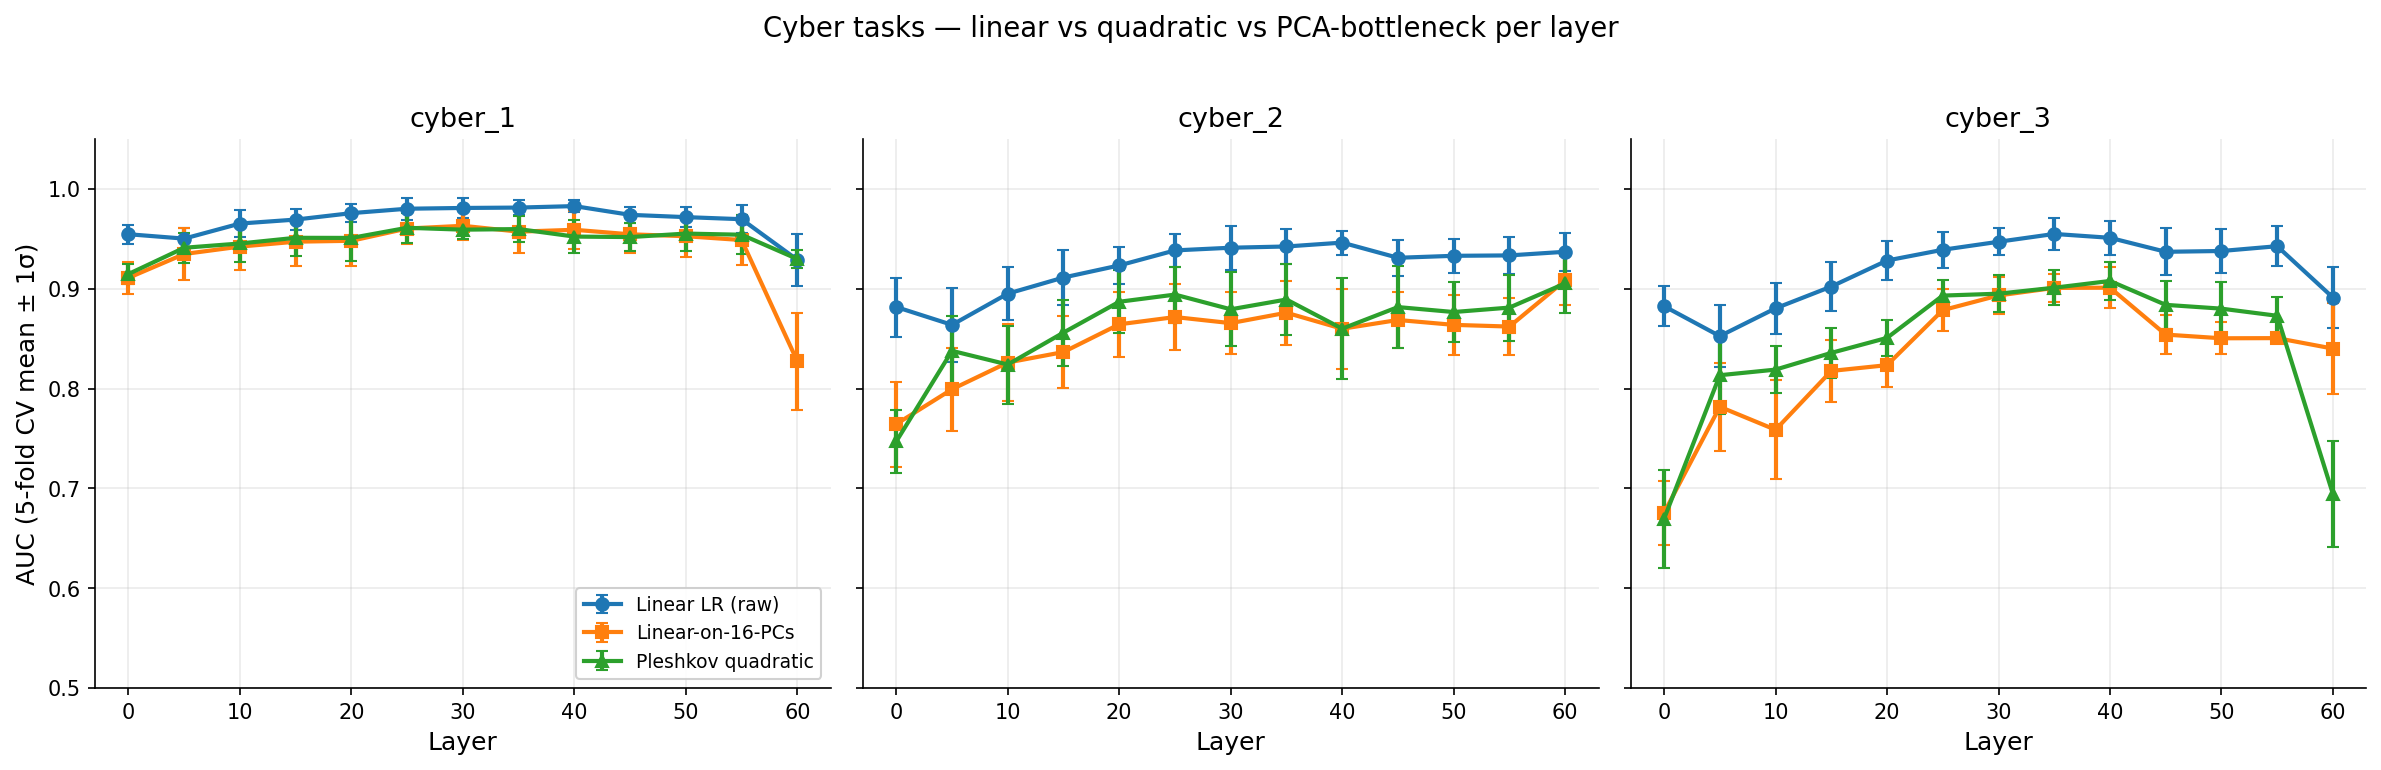
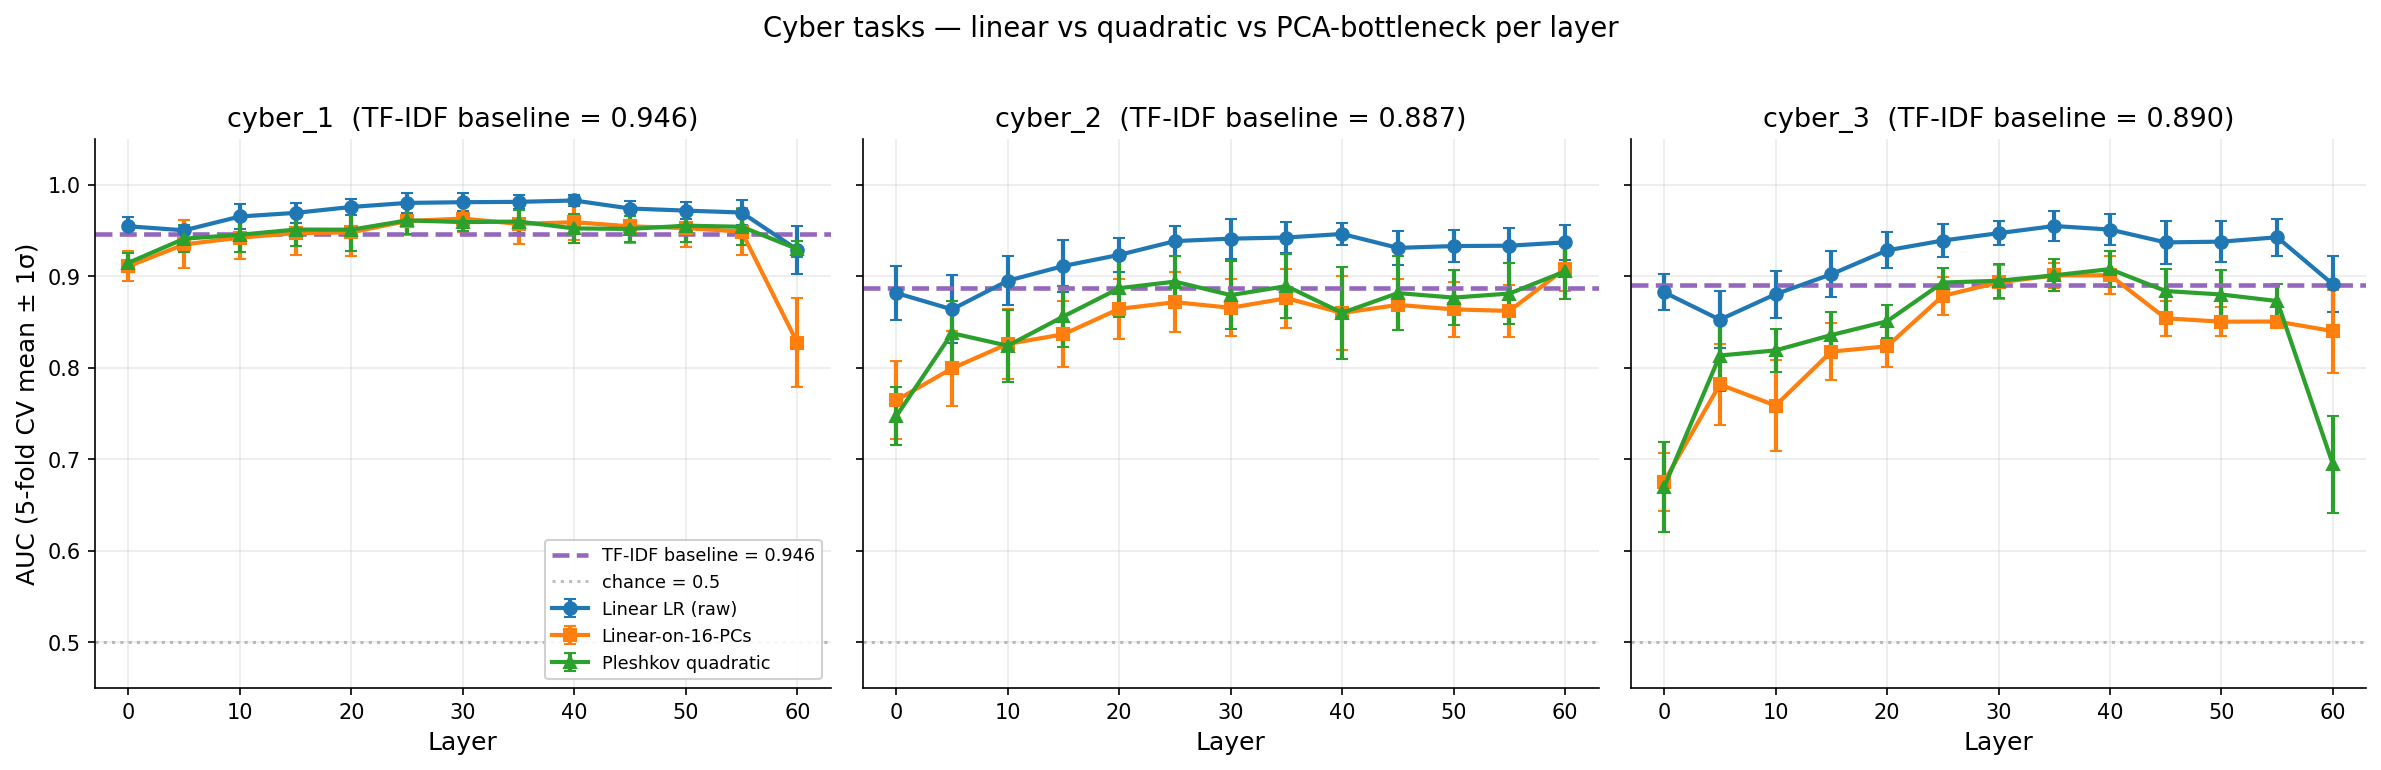
Add TF-IDF baseline to refusal + cyber layer-sweep plots
TF-IDF AUCs (purple dashed line):
  cyber_1 = 0.946  (exp 09 D1)
  cyber_2 = 0.887
  cyber_3 = 0.890
  refusal = 0.877  (exp 21)

Plus chance=0.5 dotted line for reference. Shows the activation lift
above TF-IDF: linear-on-raw exceeds TF-IDF at L20+ everywhere; Pleshkov
sits AT or below TF-IDF (PCA bottleneck collapses to baseline level).

diff --git a/experiments/37_presentation_plots/make_plots.py b/experiments/37_presentation_plots/make_plots.py
@@ -167,12 +167,16 @@ def plot_refusal_layer_sweep():
                 label="Linear LR on 16 PCs", capsize=3)
     ax.errorbar(layers, quad, yerr=quad_e, marker="^", color="#2ca02c", lw=2,
                 label="Pleshkov quadratic (16 PCs + degree-2 + ridge)", capsize=3)
+    # TF-IDF baseline (exp 21 refusal_baselines)
+    ax.axhline(0.877, ls="--", color="#9467bd", lw=2.2,
+                label="TF-IDF baseline = 0.877")
+    ax.axhline(0.5, ls=":", color="grey", alpha=0.5)
     ax.set_xlabel("Layer")
     ax.set_ylabel("AUC (5-fold CV mean ± 1σ)")
     ax.set_xticks(layers)
-    ax.set_title("Refusal-Gemma — layer sweep: linear vs quadratic vs PCA-bottleneck")
-    ax.set_ylim(0.7, 1.0)
-    ax.legend(loc="lower right", framealpha=0.9)
+    ax.set_title("Refusal-Gemma — layer sweep: linear vs quadratic vs PCA-bottleneck vs TF-IDF")
+    ax.set_ylim(0.5, 1.0)
+    ax.legend(loc="lower right", framealpha=0.9, fontsize=9)
     # Annotation
     best_layer = layers[int(np.argmax(lin))]
     best = max(lin)
@@ -191,6 +195,8 @@ def plot_refusal_layer_sweep():
 # PLOT 3 — Cyber Pleshkov sweeps (3 panels)
 # ============================================================================
 def plot_cyber_layer_sweeps():
+    # TF-IDF baseline AUC per cyber task (exp 09 D1)
+    tfidf = {"cyber_1": 0.946, "cyber_2": 0.887, "cyber_3": 0.890}
     fig, axes = plt.subplots(1, 3, figsize=(16, 5), sharey=True)
     for ax, task in zip(axes, ["cyber_1", "cyber_2", "cyber_3"]):
         d = load_pleshkov_sweep(task)
@@ -210,11 +216,15 @@ def plot_cyber_layer_sweeps():
                     label="Linear-on-16-PCs", capsize=3)
         ax.errorbar(layers, quad, yerr=quad_e, marker="^", color="#2ca02c", lw=2,
                     label="Pleshkov quadratic", capsize=3)
+        # TF-IDF baseline horizontal line
+        ax.axhline(tfidf[task], ls="--", color="#9467bd", lw=2.2,
+                    label=f"TF-IDF baseline = {tfidf[task]:.3f}")
+        ax.axhline(0.5, ls=":", color="grey", alpha=0.5, label="chance = 0.5")
         ax.set_xlabel("Layer"); ax.set_xticks(layers[::2])
-        ax.set_title(f"{task}")
-        ax.set_ylim(0.5, 1.05)
+        ax.set_title(f"{task}  (TF-IDF baseline = {tfidf[task]:.3f})")
+        ax.set_ylim(0.45, 1.05)
         if task == "cyber_1":
-            ax.legend(loc="lower right", framealpha=0.9, fontsize=9)
+            ax.legend(loc="lower right", framealpha=0.9, fontsize=8.5)
             ax.set_ylabel("AUC (5-fold CV mean ± 1σ)")
     fig.suptitle("Cyber tasks — linear vs quadratic vs PCA-bottleneck per layer", y=1.02)
     plt.tight_layout()
